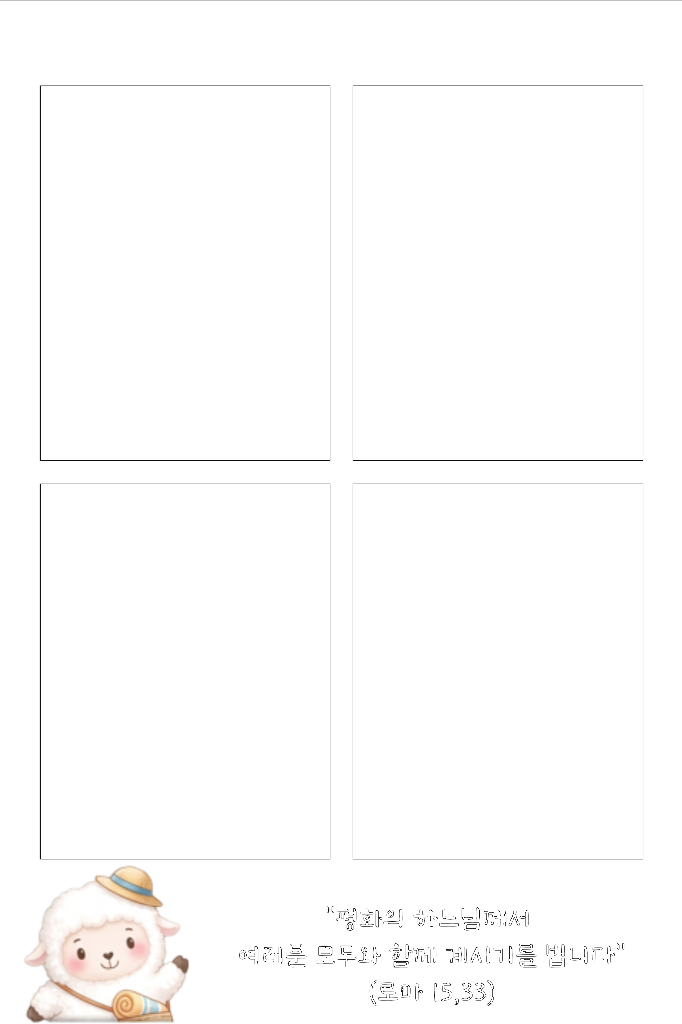
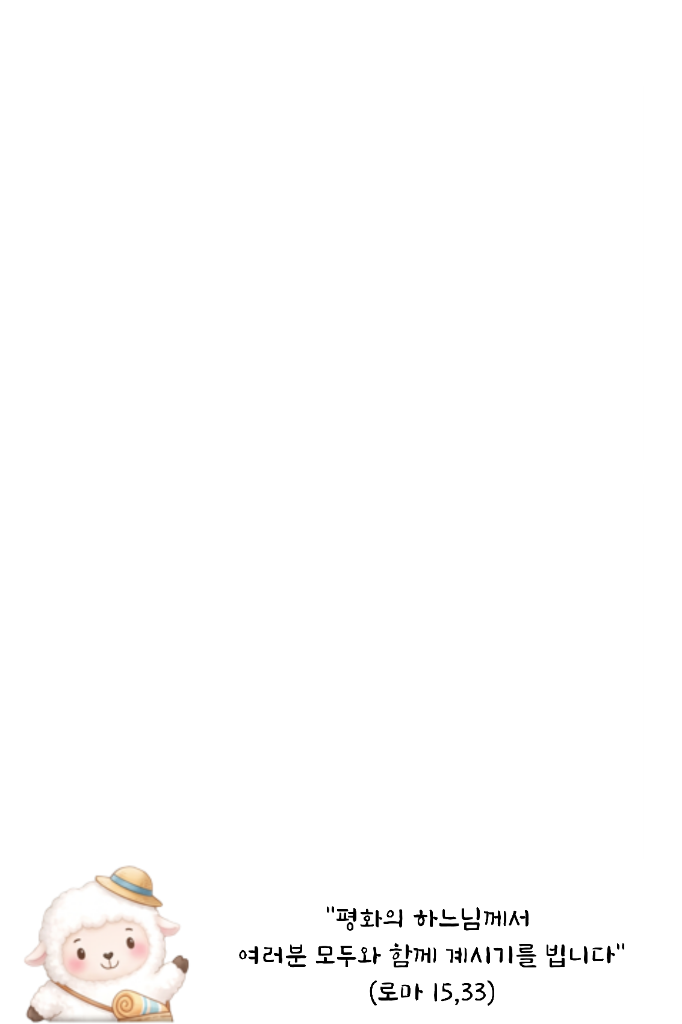
Replace template with original transparent overlay image; adjust canvas coordinates for mt_sheep_word

diff --git a/client/src/utils/canvasRenderer.ts b/client/src/utils/canvasRenderer.ts
@@ -182,7 +182,7 @@ export async function renderPhotoBoothCanvas(config: RenderConfig): Promise<HTML
     let startY = 150;
 
     // Custom coordinates for Yallu templates to ensure perfect non-crop alignment
-    if (config.frameColor.includes('yallu_')) {
+    if (config.frameColor.includes('yallu_') || config.frameColor.includes('mt_sheep_word')) {
       photoW = 502;
       photoH = 658;
       gapX = 59;